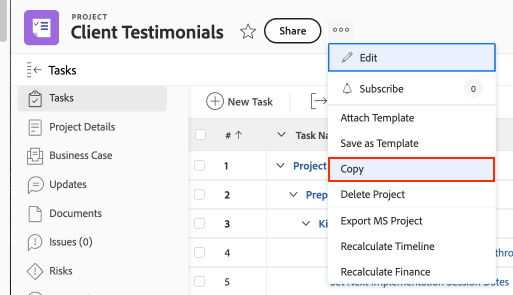
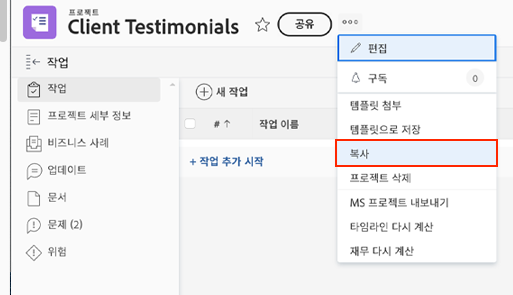
Updated by task 'AUTO_HANDOFF_1729000166769'  Changes for core/source commit https://git.corp.adobe.com/AdobeDocs/workfront-learn.en/commit/864198f778343634d28b304a0154c7041468faec

diff --git a/help/manage-work/create-and-manage-project-templates/deactivate-a-project-template.md b/help/manage-work/create-and-manage-project-templates/deactivate-a-project-template.md
@@ -14,7 +14,7 @@ jira: KT-14749
 doc-type: video
 exl-id: ad9b9e1e-3d8c-4a0f-8f73-e204047485a6
 source-git-commit: 434069d95777eef7739917d8761c03a8e64b8433
-workflow-type: tm+mt
+workflow-type: ht
 source-wordcount: '125'
 ht-degree: 100%
 
@@ -31,7 +31,7 @@ ht-degree: 100%
 
 ## 프로젝트 템플릿의 활성 상태를 확인 및 편집하기 위해 사용자 정의 보기를 만드는 방법을 알아봅니다.
 
-활성 상태 열이 있는 프로젝트 템플릿 보기를 만들려면 [기본 보기 만들기](https://experienceleague.adobe.com/docs/workfront-learn/tutorials-workfront/reporting/basic-reporting/create-a-basic-view.html?lang=ko-KR)에서 **프로젝트 템플릿 활성 상태 보기 활동**&#x200B;을 참조하십시오.
+활성 상태 열이 있는 프로젝트 템플릿 보기를 만들려면 [기본 보기 만들기](https://experienceleague.adobe.com/docs/workfront-learn/tutorials-workfront/reporting/basic-reporting/create-a-basic-view.html?lang=ko-kr)에서 **프로젝트 템플릿 활성 상태 보기 활동**&#x200B;을 참조하십시오.
 
 ## 이 주제와 관련된 추천 튜토리얼
 

diff --git a/help/manage-work/manage-projects/copy-an-existing-project.md b/help/manage-work/manage-projects/copy-an-existing-project.md
@@ -12,15 +12,15 @@ recommendations: noDisplay,noCatalog
 jira: KT-10155
 exl-id: 90a87fef-70e9-42fc-ac55-415980ef32c7
 source-git-commit: 434069d95777eef7739917d8761c03a8e64b8433
-workflow-type: tm+mt
+workflow-type: ht
 source-wordcount: '155'
-ht-degree: 89%
+ht-degree: 100%
 
 ---
 
 # 기존 프로젝트 복사
 
-때로는 템플릿을 사용하여 프로젝트를 만드는 대신 다른 일회성 사용을 위해 프로젝트를 복사하기만 하면 됩니다. 이렇게 하려면 프로젝트에 대한 편집 및 만들기 액세스 권한이 있는 Standard 라이센스가 있어야 합니다.
+때로는 템플릿을 사용하여 프로젝트를 만드는 대신 다른 일회성 사용을 위해 프로젝트를 복사하기만 하면 됩니다. 이렇게 하려면 프로젝트에 대한 ‘편집’ 및 ‘만들기’ 액세스 권한이 있는 표준 라이선스가 있어야 합니다.
 
 복사하려는 프로젝트로 이동하고 프로젝트 이름 옆에 있는 점 3개 메뉴를 클릭합니다. 그런 다음 ‘복사’를 선택합니다.
 

diff --git a/help/manage-work/create-and-manage-project-templates/share-a-project-template.md b/help/manage-work/create-and-manage-project-templates/share-a-project-template.md
@@ -1,6 +1,6 @@
 ---
 title: 프로젝트 템플릿 공유
-description: 프로젝트 템플릿을 공유하는 방법 및 템플릿에서 만든 프로젝트를 공유하는 방법에 대해 알아봅니다.
+description: 프로젝트 템플릿을 공유하는 방법과 템플릿에서 만든 프로젝트를 공유하는 방법에 대해 알아봅니다.
 activity: use
 feature: Work Management
 thumbnail: 335211.jpeg
@@ -13,9 +13,9 @@ jira: KT-8951
 exl-id: 9179fbc8-1000-4215-b2c3-de617c7f1d80
 doc-type: video
 source-git-commit: 434069d95777eef7739917d8761c03a8e64b8433
-workflow-type: tm+mt
+workflow-type: ht
 source-wordcount: '77'
-ht-degree: 79%
+ht-degree: 100%
 
 ---
 

diff --git a/help/manage-work/create-and-manage-project-templates/create-a-project-directly-from-a-template.md b/help/manage-work/create-and-manage-project-templates/create-a-project-directly-from-a-template.md
@@ -12,7 +12,7 @@ recommendations: noDisplay,noCatalog
 jira: KT-10156
 exl-id: 1f44eb26-98bf-4723-b162-27a4f8cb8177
 source-git-commit: 434069d95777eef7739917d8761c03a8e64b8433
-workflow-type: tm+mt
+workflow-type: ht
 source-wordcount: '197'
 ht-degree: 100%
 

diff --git a/help/manage-work/create-and-manage-project-templates/create-a-project-template.md b/help/manage-work/create-and-manage-project-templates/create-a-project-template.md
@@ -14,7 +14,7 @@ jira: KT-8950
 exl-id: 1f706148-c001-42a8-a675-48e91d445f0b
 doc-type: video
 source-git-commit: 434069d95777eef7739917d8761c03a8e64b8433
-workflow-type: tm+mt
+workflow-type: ht
 source-wordcount: '377'
 ht-degree: 100%
 

diff --git a/help/manage-work/create-and-manage-project-templates/edit-the-project-team-in-a-project-template.md b/help/manage-work/create-and-manage-project-templates/edit-the-project-team-in-a-project-template.md
@@ -14,7 +14,7 @@ jira: KT-14755
 doc-type: video
 exl-id: 9a92a0a5-5ea3-428d-a81a-2d217e6e3d59
 source-git-commit: 434069d95777eef7739917d8761c03a8e64b8433
-workflow-type: tm+mt
+workflow-type: ht
 source-wordcount: '84'
 ht-degree: 100%
 
